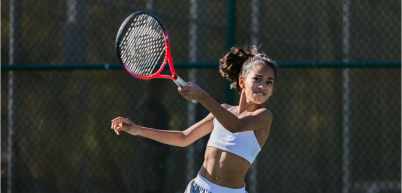
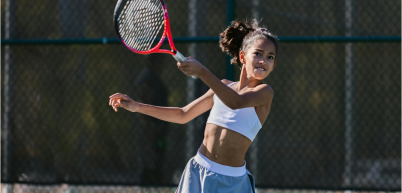
actualizacion para revision

diff --git a/style.css b/style.css
@@ -67,7 +67,6 @@ button {
 
 .navbar__nav__buttons {
     display: flex;
-
 }
 
 .navbar__nav__login {
@@ -81,7 +80,6 @@ button {
     display: flex;
     padding: 20px 60px;
     color: white;
-
 }
 
 .jumbotron {
@@ -95,7 +93,6 @@ button {
     align-items: center;
     justify-content: end;
     padding: 60px;
-
 }
 
 .jumbotron h1 {
@@ -104,8 +101,6 @@ button {
     font-size: 64px;
     font-weight: 700;
     text-align: center;
-
-
 }
 
 .jumbotron>p {
@@ -117,8 +112,8 @@ button {
 
 .jumbotron__absolute--top {
     position: absolute;
-    top: 300px;
-    right: 300px;
+    top: 250px;
+    right: 250px;
     display: flex;
     flex-direction: column;
     align-items: flex-start;
@@ -126,7 +121,7 @@ button {
 
 .jumbotron__absolute--bottom {
     position: absolute;
-    top: 450px;
+    top: 380px;
     right: 280px;
     display: flex;
     flex-direction: column;
@@ -141,12 +136,10 @@ button {
 .jumbotron__absolute__parrafo {
     text-decoration: underline;
     font-size: 20px;
-
-
 }
 
 .jumbotron_button {
-    color: aliceblue;
+    color: white;
 }
 
 /* BODY */
@@ -154,49 +147,49 @@ button {
 
 .sectionone {
     background-color: #212121;
+    padding: 20px;
 }
 
 .sectionone_h2 {
     display: flex;
     justify-content: center;
-    color: aliceblue;
+    color: white;
     font-size: 32px;
     font-weight: 600;
-    padding: 20px;
+    
 }
 
 .sectionone_p {
     display: flex;
     justify-content: center;
     text-align: center;
-    color: aliceblue;
+    color: white;
     font-size: 19px;
-    padding: 10px;
-
+      padding: 20px;
 }
-
-.section_cards {
-    display: flex;
-    flex-direction: column;
-    align-items: center;
-    background;
-}
-
 
 .cards_container {
     display: flex;
     flex-direction: column;
     align-items: center;
+    background-image: linear-gradient(20deg,#212121, #000000);   
+    border-radius: 20px;
+    margin: 20px;
+    margin-left: 5%;
+    margin-right: 5%;
+    padding: 25px;
+
 }
 
 .cards_container__product {
     display: flex;
     flex-direction: column;
     align-items: center;
+    padding: 40px;
 }
 
 .cards_container__figcap {
-    color: aliceblue;
+    color: white;
     padding: 20px;
 }
 
@@ -222,31 +215,39 @@ button {
     display: flex;
     justify-content: center;
     text-align: center;
-    color: aliceblue;
+    color: white;
     font-size: 19px;
     padding: 10px;
-
 }
 
+.secondpage__menu{
+    background-color: white;
+    margin-top: 2%;
+    margin-left: 20%;
+    margin-right: 20%;
+    padding: 25px;
+   border-radius: 20px;    
+}
 .secondpage__topbuttons {
     display: flex;
-    text-align: center;
-    justify-content: left;
+    justify-content: flex-start;
 }
 
-.secondpage__menu {
-    background-color: white;
-
-
-
+.line {
+    height: 2px;
+    width: 71%;   
 }
 
-.secondpage__labels {
+.secondpage__topbuttons>button {
     display: flex;
-    justify-content: center;
-    align-content: space-between;
-
+    justify-content: flex-start;
+    align-items: center;
+    color: black;
+    text-decoration: underline;
+    border:transparent;
 }
+
+/*PAGINA 3*/
 
 .sectionthree {
     display: flex;
@@ -254,13 +255,21 @@ button {
     background-size: 100%;
     background-position: 0% 0%;
     height: 130vh;
-
 }
 
 .thirdpage{
     width: 800px;
     height: 800px;
     padding-top: 150px;
+}
+
+.sectionthree__h2 {
+    display: flex;
+   align-items: center;
+    font-size: 84px;
+    font-weight: 800;
+    padding-left: 80;
+    color: white;
 }
 
 .sectionthree__p {
@@ -273,16 +282,50 @@ button {
     text-align: right;
 }
 
-.sectionthree__h2 {
+
+
+/*PAGINA 4*/
+.sectionfour{
+    background-color: #212121;
+    padding: 20px;
+}
+
+.sectionfour__h2{
     display: flex;
-    
-   align-items: center;
-    font-size: 84px;
-    font-weight: 800;
-    padding-left: 80px;
+    justify-content: center;
     color: white;
+    font-size: 32px;
+    font-weight: 600;
+}
+
+.sectionfour__p{
+    display: flex;
+    justify-content: center;
+    text-align: center;
+    color: white;
+    font-size: 19px;
+      padding: 20px;
+}
+
+
+.cards_container__product2{
+    display: flex;
+    justify-content: center;
+flex-direction: column;
+    align-items: center;
+    padding: 20px;
+    color: white;
+    font-weight: 600;
+    background-color: #000000;
+    border-radius: 20px;
+    margin: 20px;
+    margin-top: 2%;
+    margin-left: 37%;
+    margin-right: 37%;
+
 
 }
+
 
 /* 
 Medidas responsivas (Adaptativo) se adaptan a cualquier dispositivo

diff --git a/index.html b/index.html
@@ -138,13 +138,13 @@
                     <button>EQUIPOS</button>
                     <button>CANCHAS</button>
                 </div>
-
+                <hr class="line">
 
                 <div class="secondpage__labels">
                     <form action="/" method="get">
-                        <label for="Ubicacion">
+                        <label for="Ubicacion">UBICACION
                             <img src="/assets/Group 1.svg" alt="Icono referente a ubicacion">
-                            Ubicacion
+
                         </label>
                         <select name="Ubicacion" id="Ubicacion">
                             <option selected value="Default"></option>
@@ -155,25 +155,23 @@
 
 
 
-                        <label for="date">
-                            <img src="/assets/calendar-outline.svg" alt="Icono en forma de calendario">
-                            Fecha
+                        <label for="date"> FECHA
+                        
                             <input type="date" name="date" id="date">
                         </label>
 
 
 
-                        <label for="time">
-                            <img src="/assets/time-outline.svg" alt="Icono en forma de reloj">
-                            Hora
+                        <label for="time"> HORA
+
                             <input type="time" name="time" id="time">
                         </label>
 
 
 
-                        <label for="">
+                        <label for="">TIPO DE JUEGO
                             <img src="/assets/people-outline.svg" alt="Icono referente a personas">
-                            Tipo de juego
+
                         </label>
                         <select name="Tipo de juego" id="Tipo de juego">
                             <option selected value="Default"></option>
@@ -194,8 +192,8 @@
         <!-- Third page -->
         <section class="sectionthree">
 
-                <img src="/assets/Rectangle 2.jpg" alt="vista superior de canchas de tenis" class="thirdpage">
-            
+            <img src="/assets/Rectangle 2.jpg" alt="vista superior de canchas de tenis" class="thirdpage">
+
 
             <h2 class="sectionthree__h2">APRENDE, JUEGA Y DISFRUTA</h2>
 
@@ -207,31 +205,31 @@
 
 
         <!-- four page-->
-        <section>
-            <h2>UNETE A NUESTRO CLUB</h2>
+        <section class="sectionfour">
+            <h2 class="sectionfour__h2">UNETE A NUESTRO CLUB</h2>
 
-            <p>Aqui no importa tu edad, ni tu experiencia, nos adaptamos a tus necesidades! Lo mas importante para
+            <p class="sectionfour__p">Aqui no importa tu edad, ni tu experiencia, nos adaptamos a tus necesidades! Lo mas importante para
                 nosotros es crear una comunidad confiable y segura para ti, bien sea que quieras una actividad para tu
                 tiempo libre, o si eres profesional. </p>
 
             <!-- contenedor de tarjetass -->
-            <div>
+            <div class="cards_container2">
 
                 <!-- tarjeta 1 -->
-                <figure>
-                    <img src="/assets/pexels-cottonbro-studio-6292757 1.jpg" alt="hombre mayor con una pelota de tenis">
+                <figure class="cards_container__product2">
+                    <img src="/assets/pexels-cottonbro-studio-6292757 1 (2).jpg" alt="hombre mayor con una pelota de tenis" class="fourpage">
                     <figcaption>TU EDAD NO ES UN LIMITE</figcaption>
                 </figure>
 
                 <!-- tarjeta 2-->
-                <figure>
-                    <img src="/assets/Frame.jpg" alt="niña pequeña jugando con una raqueta de tenis">
+                <figure class="cards_container__product2">
+                    <img src="/assets/Frame.jpg" alt="niña pequeña jugando con una raqueta de tenis" class="fourpage">
                     <figcaption>INCREMENTA TU RUTINA DE JUEGO Y ENTRENAMIENTO</figcaption>
                 </figure>
 
                 <!-- tarjeta 3 -->
-                <figure>
-                    <img src="/assets/pexels-gaspar-zaldo-13464806.jpg" alt="mujer con una raqueta de tenis jugando">
+                <figure class="cards_container__product2">
+                    <img src="/assets/pexels-gaspar-zaldo-13464806 1 (4).jpg" alt="mujer con una raqueta de tenis jugando" class="fourpage">
                     <figcaption>ORGANIZA PARTIDOS CON ANTELACION</figcaption>
                 </figure>
 
